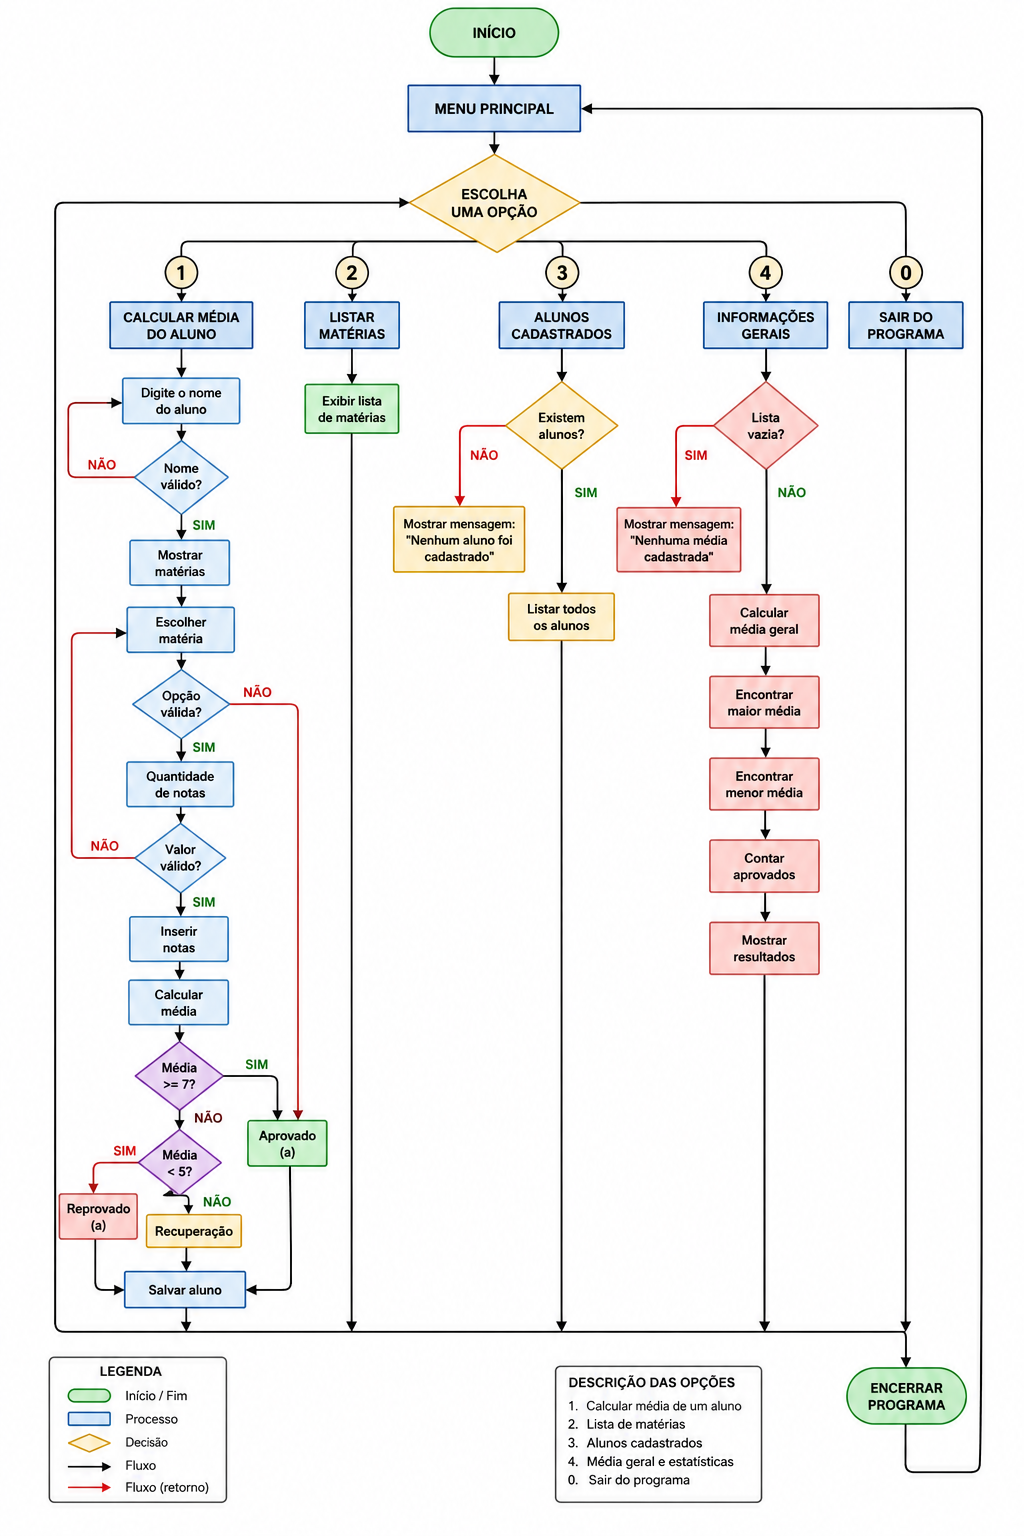
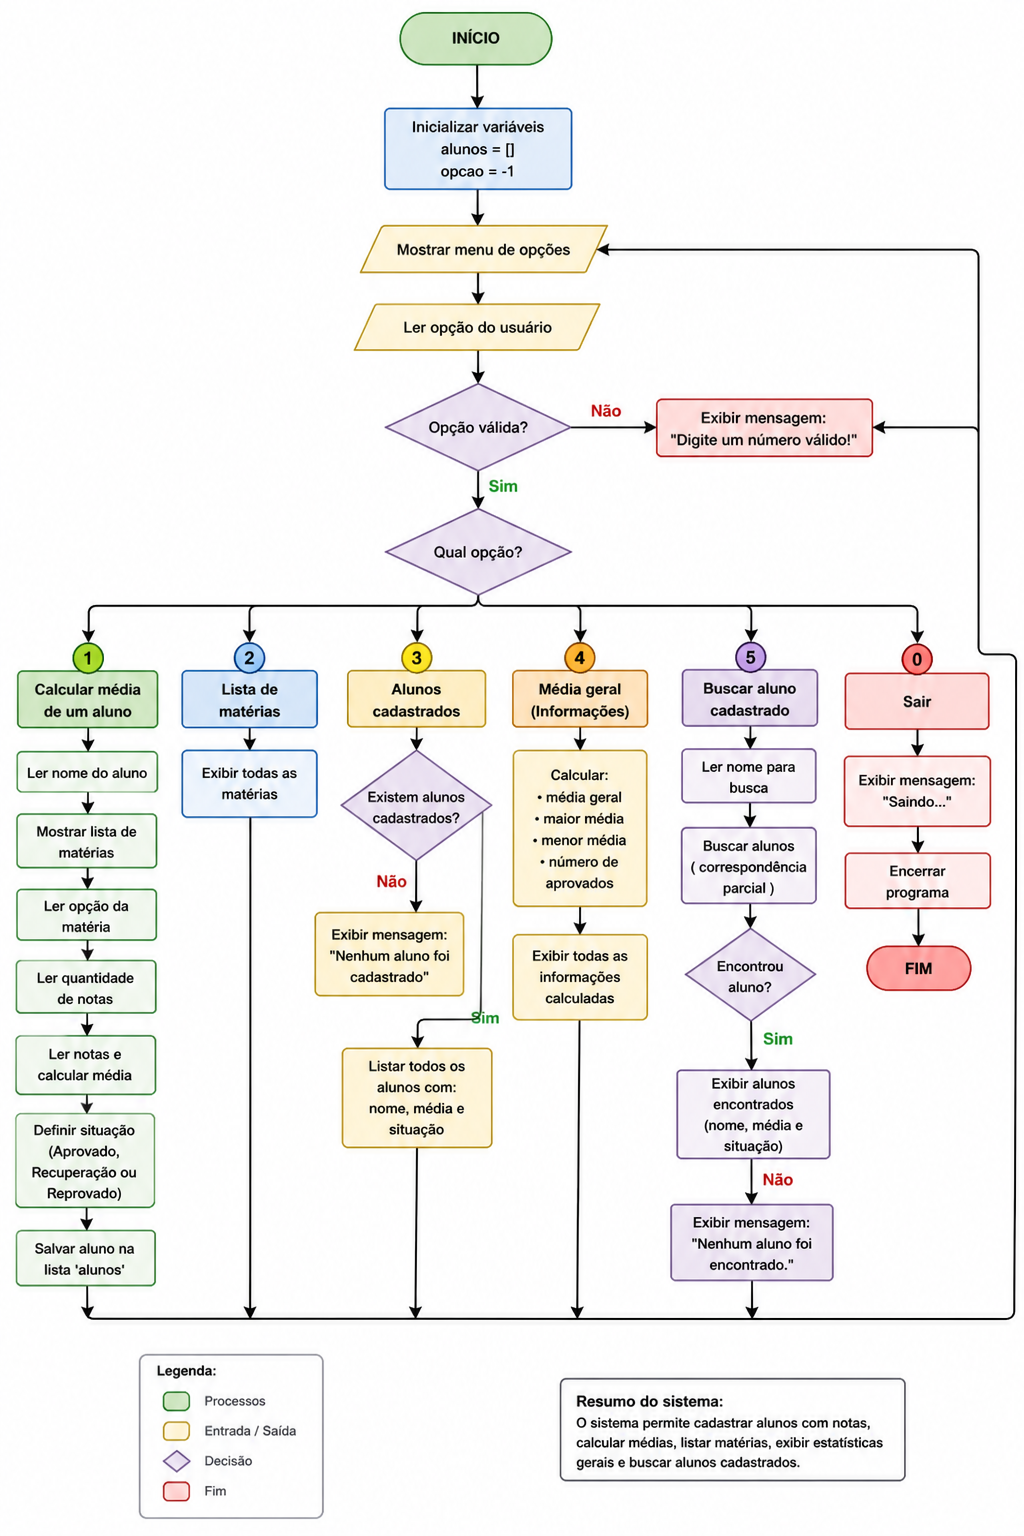
search function added

diff --git a/sistemanotas.py b/sistemanotas.py
@@ -13,7 +13,7 @@ def calcular_media_aluno(alunos, materias):
 
     # nome
     while True:
-      nome = input("Nome do aluno: ").strip()
+      nome = input("Nome do aluno: ").lower().strip()
       if nome:
           break
       print("Nome inválido!")
@@ -109,6 +109,19 @@ def mostrar_informacoes(alunos):
     print(f"Menor média: {menor['nome']} - {menor['media']:.2f}")
     print(f"Número de aprovados: {aprovados}")
 
+# buscar alunos
+
+def buscar_alunos(alunos, nome_busca):
+    resultados = []
+
+    nome_busca = nome_busca.strip().lower()
+
+    for aluno in alunos:
+        if nome_busca in aluno["nome"].strip().lower():
+            resultados.append(aluno)
+
+    return resultados
+
 # MENU PRINCIPAL
 
 opcao = -1
@@ -121,6 +134,7 @@ while opcao != 0:
     print("2 - Lista de matérias")
     print("3 - Alunos cadastrados")
     print("4 - Média geral")
+    print("5 - Buscar aluno cadastrado")
     print("0 - Sair")
 
     try:
@@ -148,6 +162,17 @@ while opcao != 0:
 
         case 4:
             mostrar_informacoes(alunos)
+
+        case 5:
+            nome_busca = input("Qual aluno deseja buscar? ")
+            
+            resultado = buscar_alunos(alunos, nome_busca)
+            
+            if resultado:
+                for aluno in resultado:
+                    print(f"Aluno: {aluno['nome']} - Média: {aluno['media']:.2f} - Situação: {aluno['situacao']}")
+            else:
+                print("Nenhum aluno foi encontrado.")
  
         case 0:
             print("Saindo...")

diff --git a/README.md b/README.md
@@ -10,10 +10,11 @@ Projeto desenvolvido em Python para gerenciamento de notas escolares.
 - Calcular média
 - Exibir status (aprovado/reprovado/média)
 - Listar informações organizadas
+- Função de busca de alunos
 
 ---
 
-## 🛠️ Tecnologias utilizadas
+## Tecnologias utilizadas
 
 - Python
 